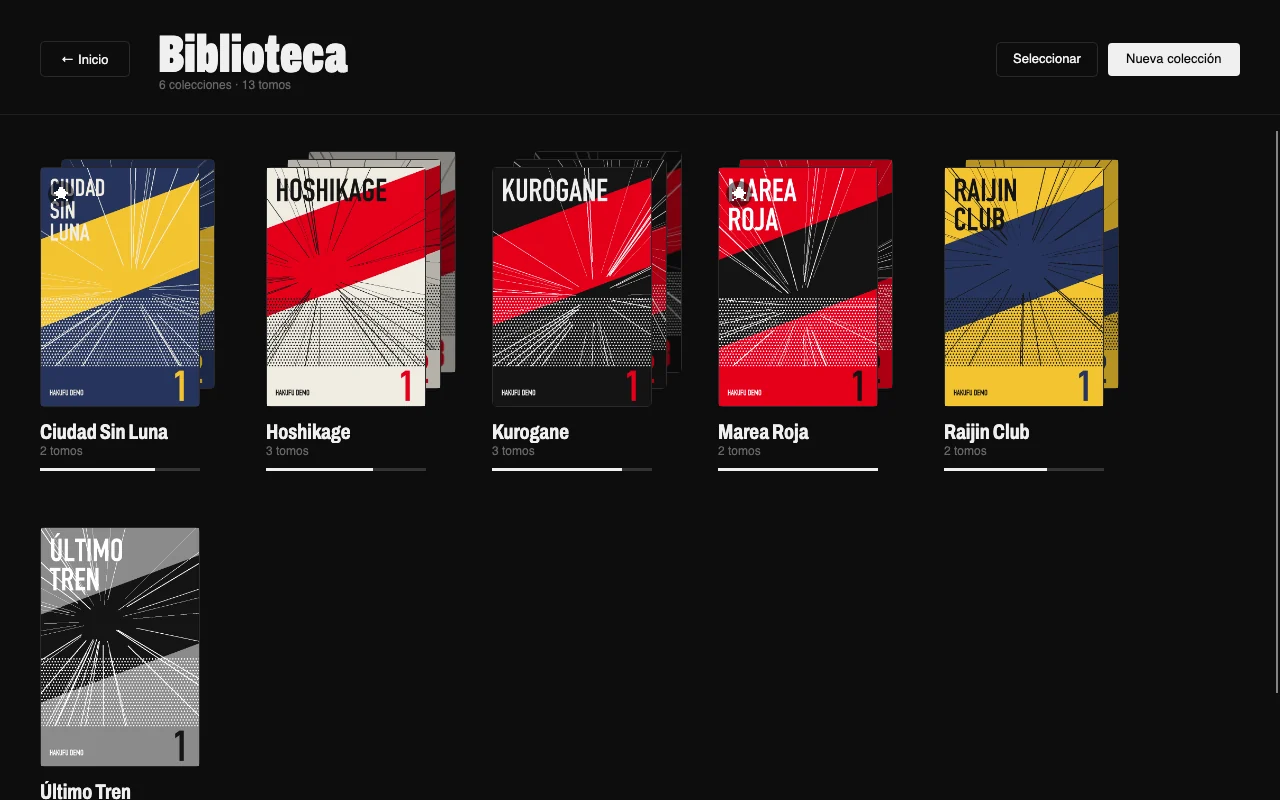
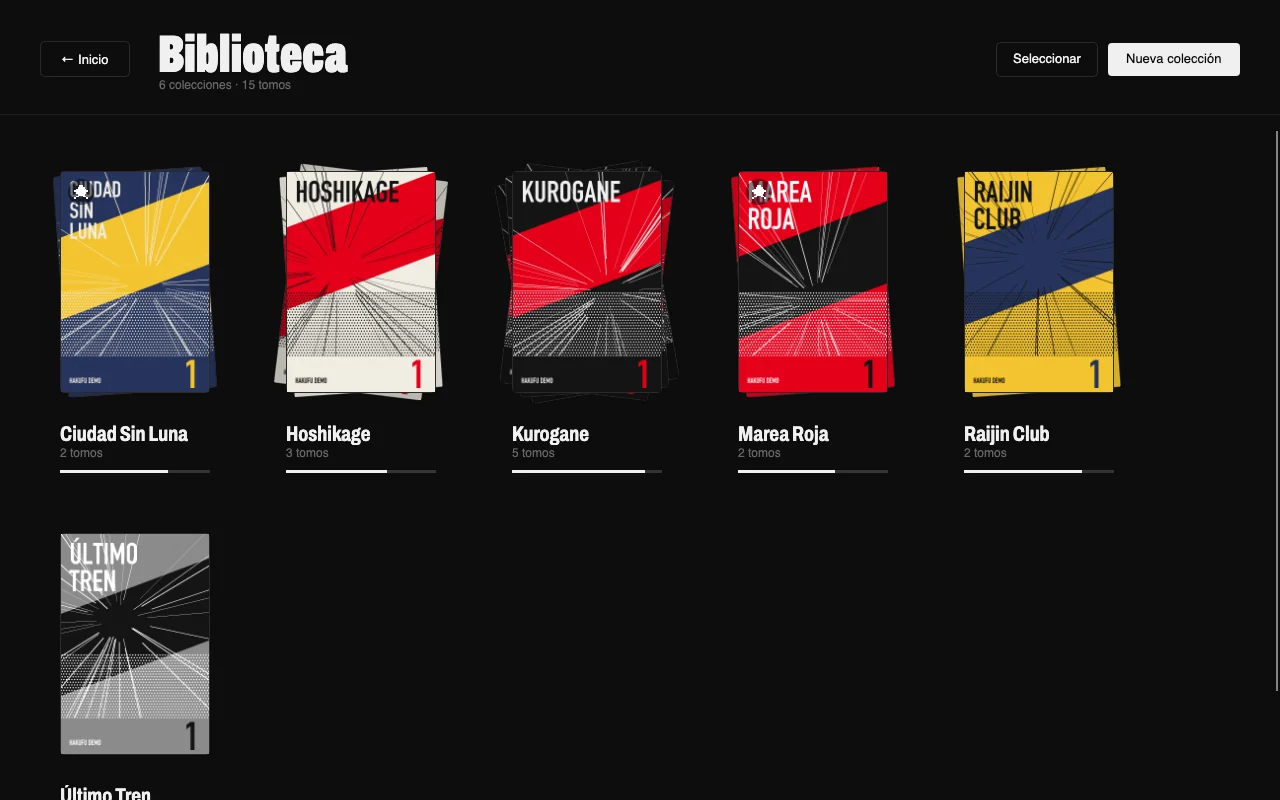
HMR biblioteca: montón de portadas como fotos apiladas (hasta 4, giradas a cada lado)

Changed region(s): [[0.0312, 0.1875, 0.875, 0.5938], [0.0312, 0.6562, 0.1875, 1.0], [0.375, 0.5312, 0.5, 0.5938]]

diff --git a/MVVM/ViewModel/CollectionCardViewModel.cs b/MVVM/ViewModel/CollectionCardViewModel.cs
@@ -20,13 +20,14 @@ public class CollectionCardViewModel : BaseViewModel
 
     public ObservableCollection<Bitmap> CoverPreviews { get; } = [];
 
-    // Las tres capas del "montón" de portadas de la tarjeta. En WPF se
-    // elegían con DataTriggers sobre CoverPreviews.Count; Avalonia no tiene
-    // DataTrigger, así que se calculan aquí.
-    public Bitmap? FrontCover  => CoverPreviews.Count > 0 ? CoverPreviews[0] : null;
-    // Una capa por tomo (sin repetir portadas): con 1 tomo, solo la de delante.
-    public Bitmap? MiddleCover => CoverPreviews.Count >= 2 ? CoverPreviews[1] : null;
-    public Bitmap? BackCover   => CoverPreviews.Count >= 3 ? CoverPreviews[2] : null;
+    // El montón de la tarjeta, como fotos apiladas: hasta 4 portadas, una por
+    // tomo (sin repetir). Cover1 es la de delante.
+    public const int MaxStack = 4;
+    public Bitmap? Cover1 => CoverAt(0);
+    public Bitmap? Cover2 => CoverAt(1);
+    public Bitmap? Cover3 => CoverAt(2);
+    public Bitmap? Cover4 => CoverAt(3);
+    private Bitmap? CoverAt(int i) => CoverPreviews.Count > i ? CoverPreviews[i] : null;
 
     private bool _isSelected;
     public bool IsSelected { get => _isSelected; set => SetProperty(ref _isSelected, value); }
@@ -42,9 +43,10 @@ public class CollectionCardViewModel : BaseViewModel
         _isFavorite = collection.IsFavorite;
         CoverPreviews.CollectionChanged += (_, _) =>
         {
-            OnPropertyChanged(nameof(FrontCover));
-            OnPropertyChanged(nameof(MiddleCover));
-            OnPropertyChanged(nameof(BackCover));
+            OnPropertyChanged(nameof(Cover1));
+            OnPropertyChanged(nameof(Cover2));
+            OnPropertyChanged(nameof(Cover3));
+            OnPropertyChanged(nameof(Cover4));
         };
     }
 
@@ -61,7 +63,7 @@ public class CollectionCardViewModel : BaseViewModel
         ProgressPct = totalPages > 0 ? readPages * 100.0 / totalPages : 0;
         OnPropertyChanged(nameof(HasProgress));
 
-        var mangas = all.Take(3).ToList();
+        var mangas = all.Take(MaxStack).ToList();
 
         foreach (var manga in mangas)
         {
